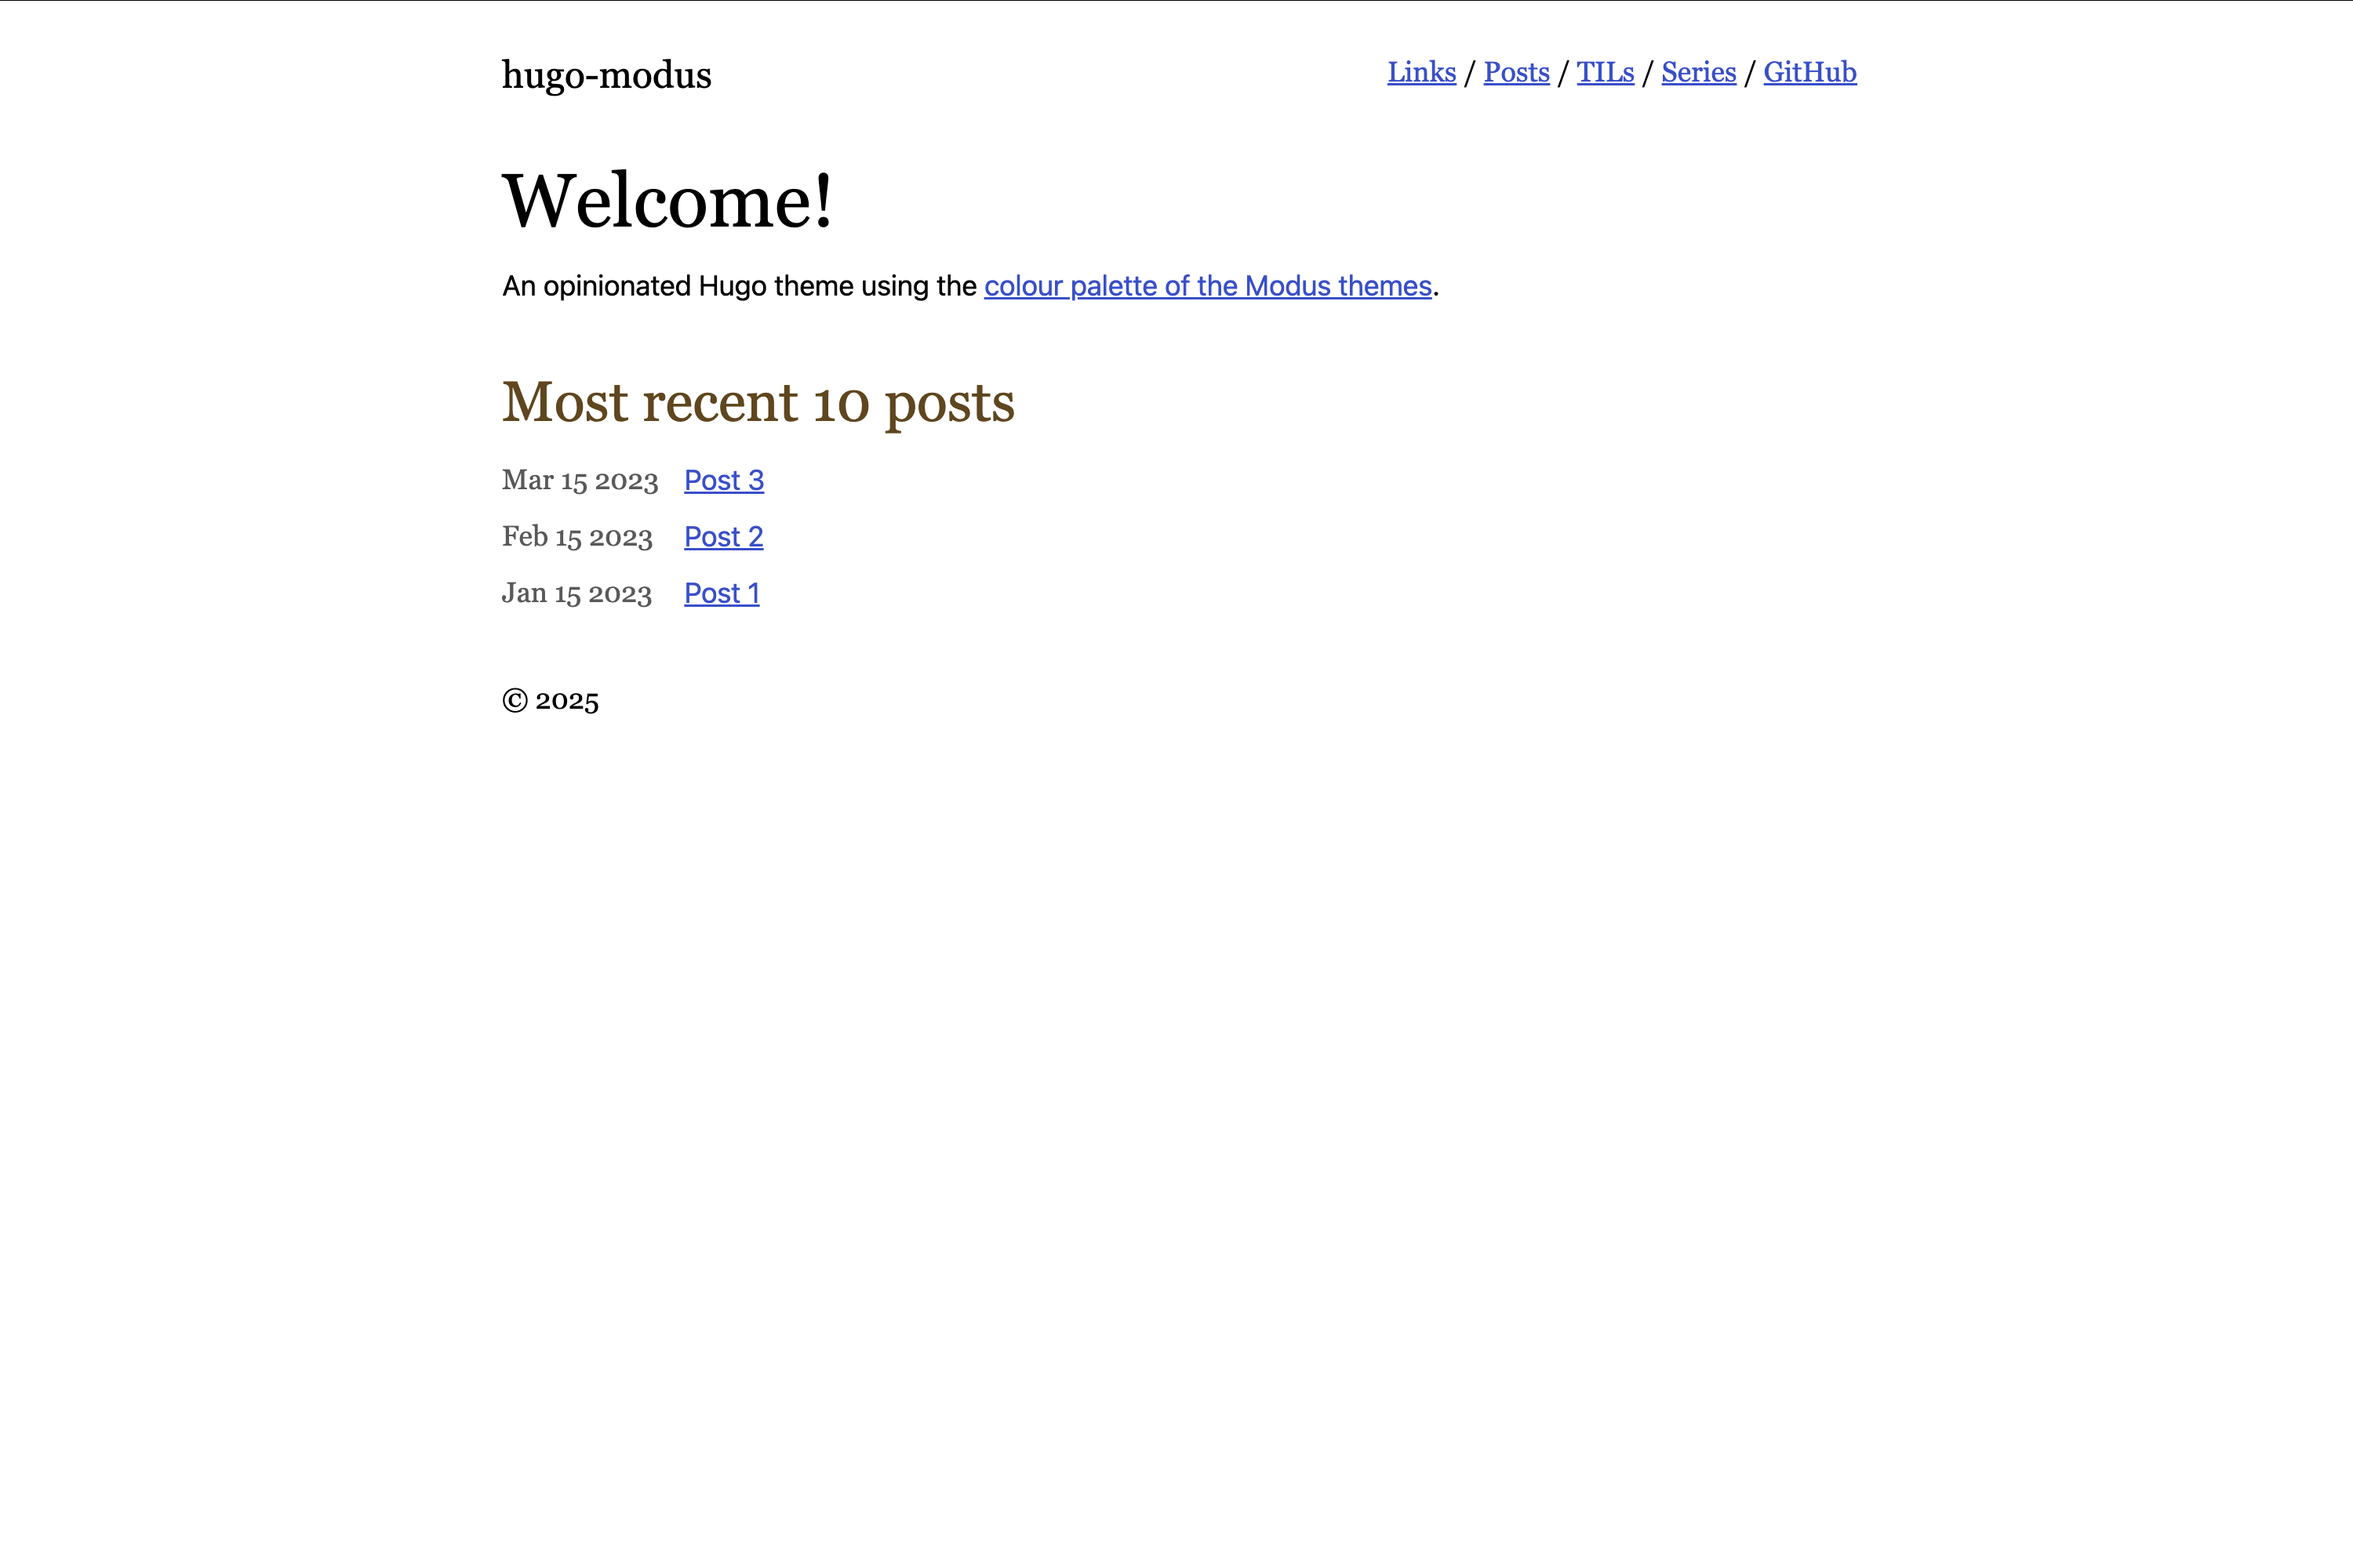
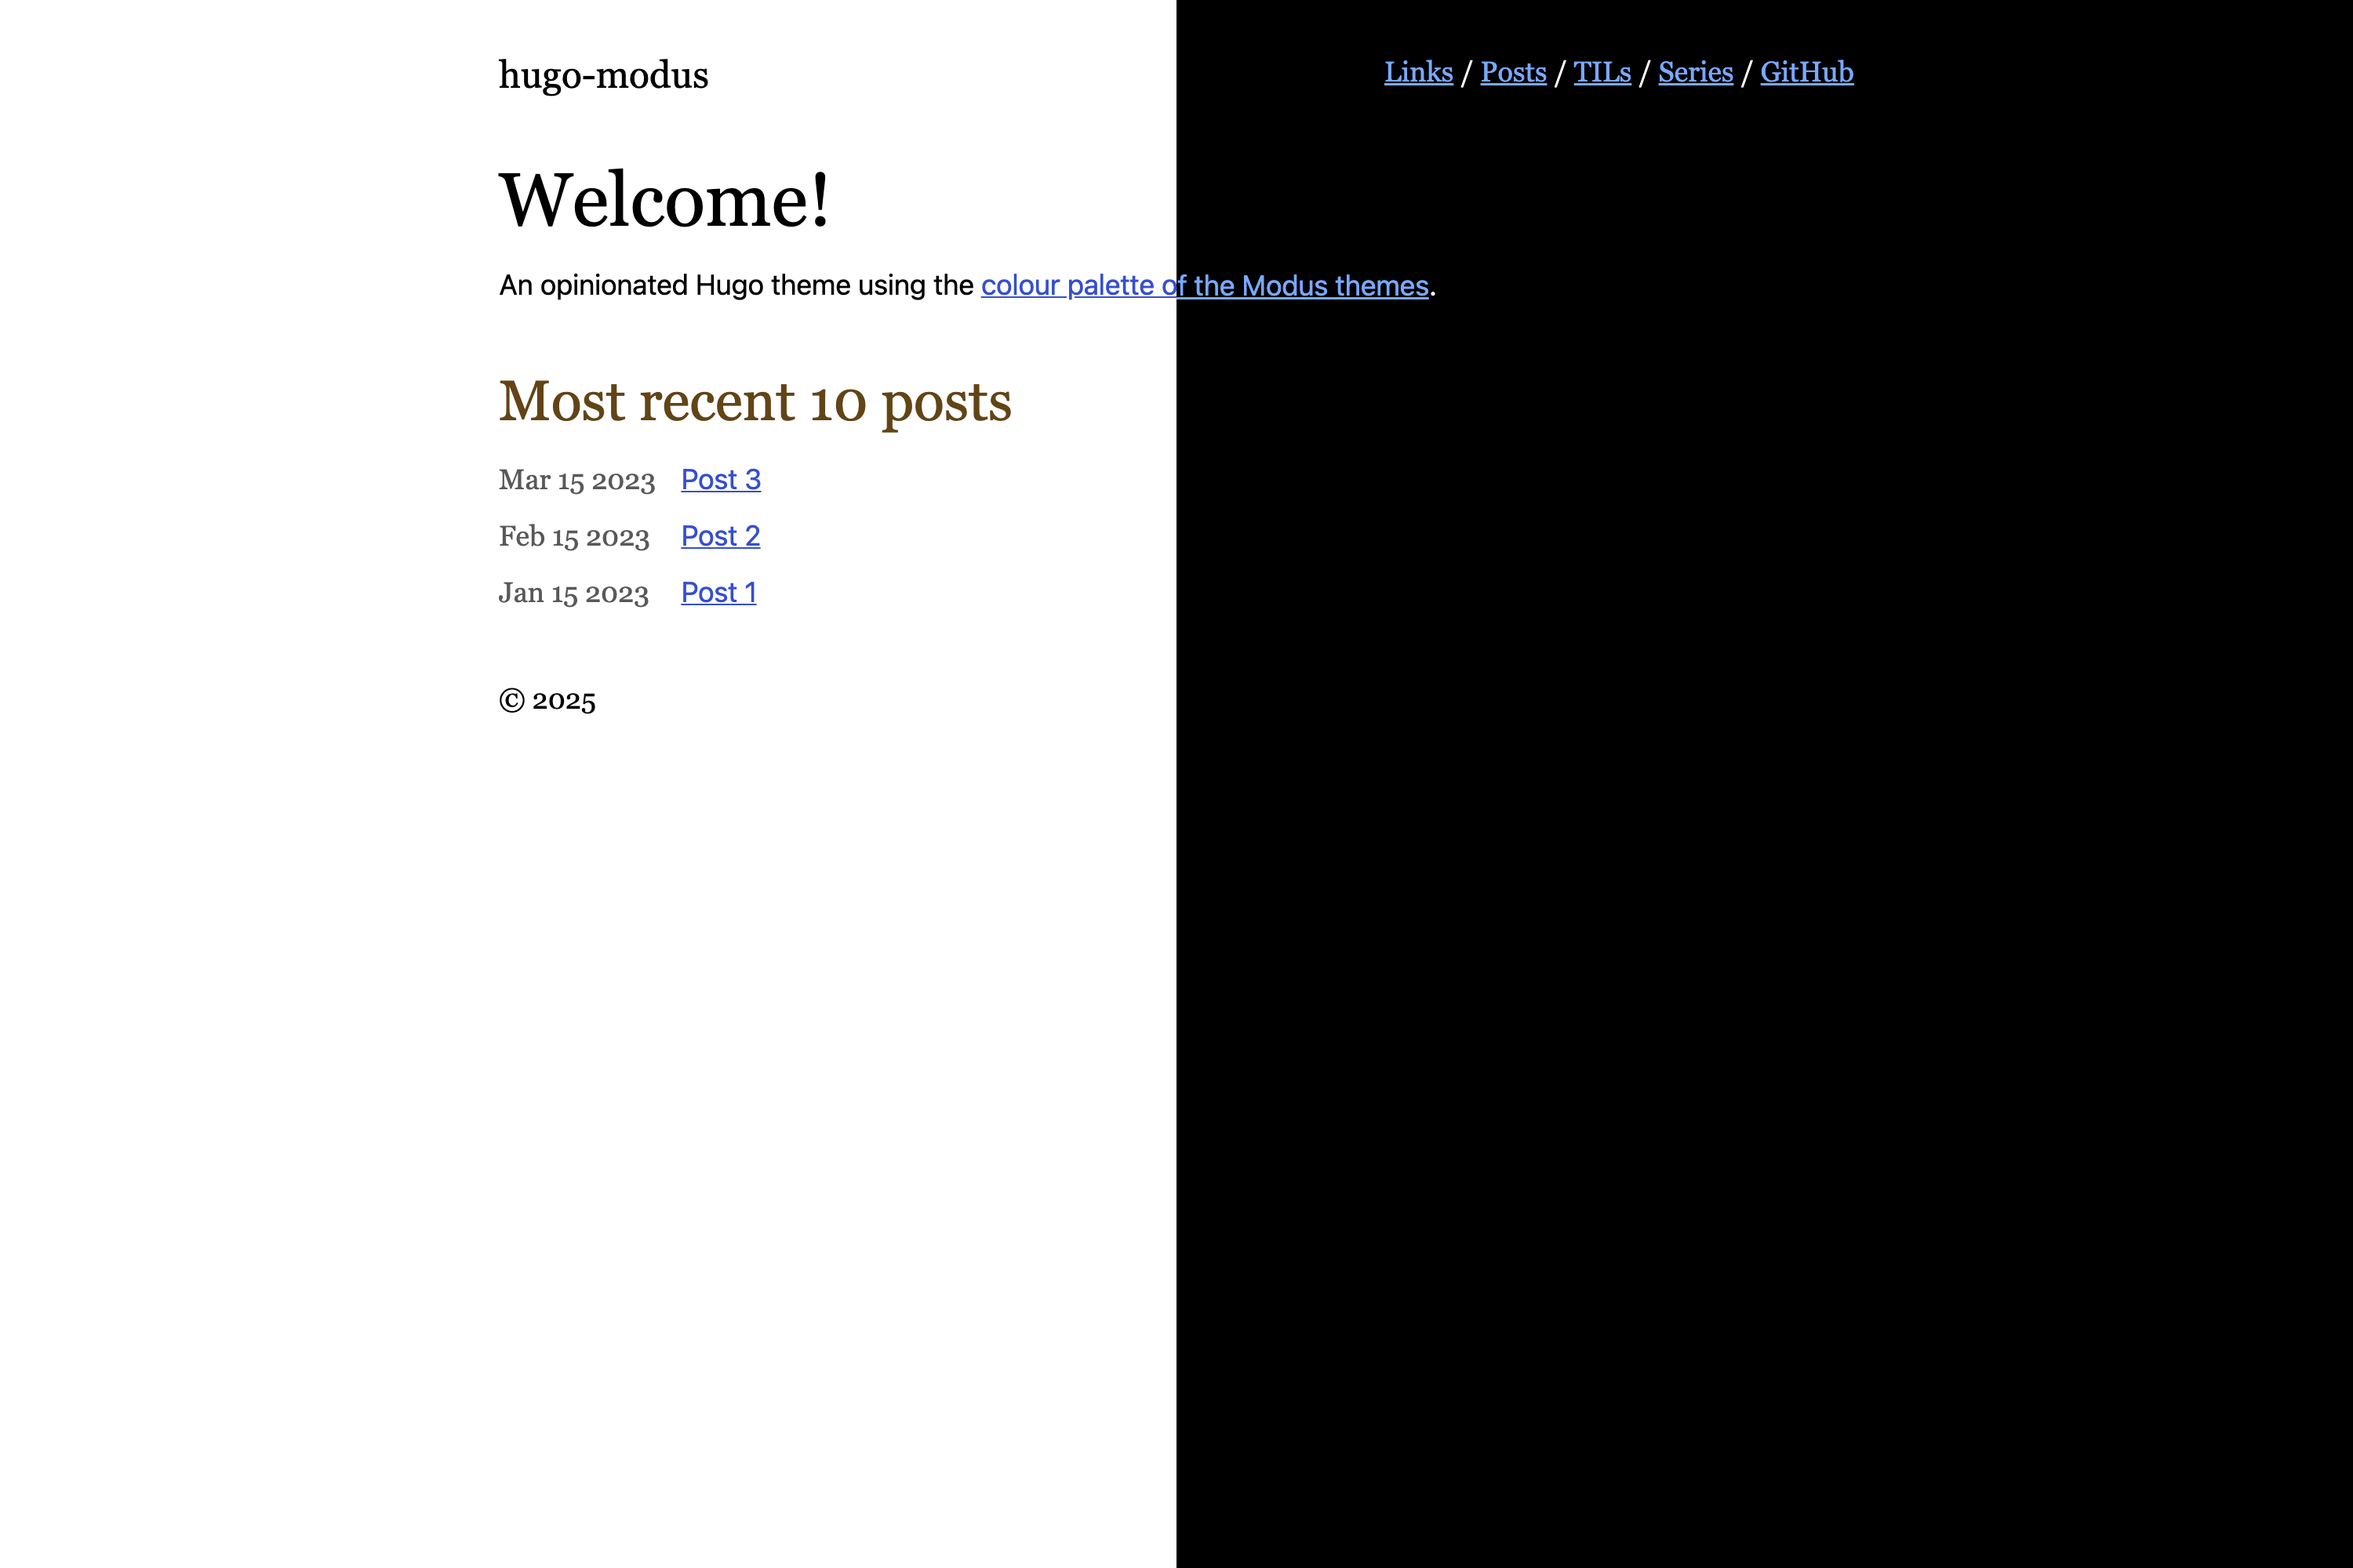
update images

diff --git a/assets/css/main.css b/assets/css/main.css
@@ -1,5 +1,7 @@
 @import "tailwindcss";
 
+@variant dark (&:where(.dark, .dark *));
+
 @theme {
   --color-*: initial;
 
